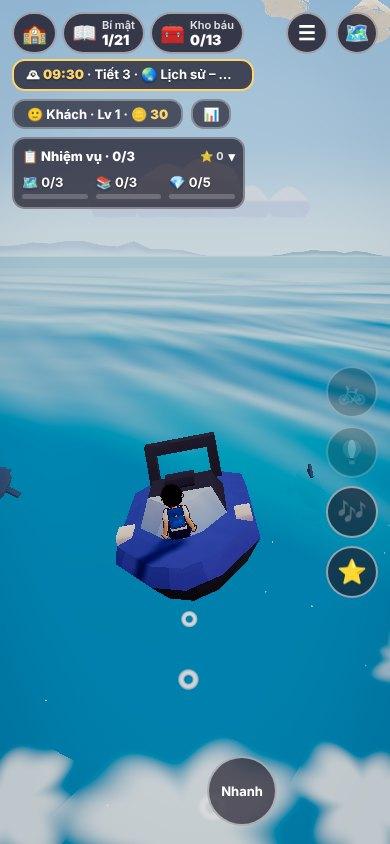
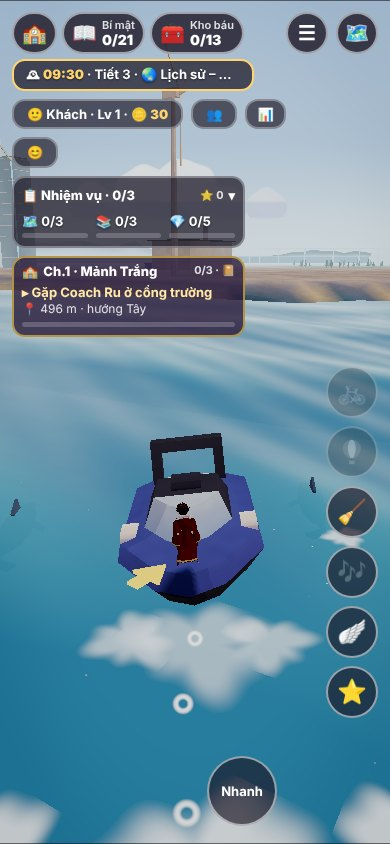
Biển sau ghép: bến phà thứ 3 dời về Bến Tây (vịnh tây nam, cạnh cầu Làng Cổ), luồng tàu lớn vào từ đông bắc – ra tây nam tránh 2 cầu và 4 vùng ngoài khơi; ẩn làng/thuyền nhỏ sớm khi xa; HUD biển dưới bảng cốt truyện trên điện thoại; chụp lại ảnh
Claude-Session: https://claude.ai/code/session_012QLWnBU5sQakeDDjyaz87d

diff --git a/client/js/island/sea/village.js b/client/js/island/sea/village.js
@@ -9,7 +9,7 @@ import { placeKit } from '../kit.js';
 import { CFG } from '../config.js';
 import { Batch } from '../academy/geo.js';
 import { matV, mat } from '../sample/palette.js';
-import { PHI, BAY, toW, NAME, DECK_Y, PIER_V, PIER_U0, PIER_U1, PIER_W, HEAD_W, HEAD_D, HOUSES, DECKS, CAGES, SEAWEED, RESORT_JETTY, PONTOON } from './site.js';
+import { PHI, BAY, toW, NAME, DECK_Y, PIER_V, PIER_U0, PIER_U1, PIER_W, HEAD_W, HEAD_D, HOUSES, DECKS, CAGES, SEAWEED, WEST, PONTOON } from './site.js';
 
 const WOOD = '#b07a48', WOOD_D = '#7a5232', WOOD_L = '#c99a62', POST = '#5c4030', BAMBOO = '#c9b06a', ROPE = '#d9c9a0';
 const WALLS = ['#3f9c9a', '#e8d9b0', '#d9785a', '#5f8fc9', '#e3b85a'];
@@ -64,7 +64,8 @@ export function createVillage(ctx) {
     b.cyl(-(v + (i % 2 ? -3 : 3)), y, u1 - 0.9, 0.42, 0.75, '#8a5a3c', 8, 0.3);
     for (let k = 0; k < 4; k++) bx(u1, u1 + 0.12, v - 0.4, v + 0.4, y - 0.3 - k * 0.38, y - 0.24 - k * 0.38, WOOD_D);
   });
-  placeKit(scene, 'dock_hut', huts, { shadow: !MOB }).then(L => L.forEach(m => { m.userData.sea = 1; }));
+  const kitIM = [];   // InstancedMesh của model kit (nằm ngoài root) → ẩn/hiện cùng làng
+  placeKit(scene, 'dock_hut', huts, { shadow: !MOB }).then(L => kitIM.push(...L));
 
   // ---------- lưới phơi trên bãi (2 giàn) + lưới vắt lan can cầu tàu ----------
   const netQuad = (u0, v0, u1, v1, y0, y1, lean = 0.5, rep = 3) => {
@@ -105,7 +106,7 @@ export function createVillage(ctx) {
   for (const [du, v, s] of [[-8, -11.5, 2.6], [-8.6, -2.6, 2.4], [-4.5, -19.5, 2.5], [-4, -13.2, 2.2]]) K('barrels', shoreU(v) + du, v, s, v);
   for (const [u, dv, c] of [[30.6, 1, '#3d8fd9'], [31.5, -1.05, '#8a5a3c'], [PIER_U1 - 1.2, 2.2, '#3d8fd9'], [PIER_U1 - 1.4, -7.5, '#8a5a3c']]) { b.cyl(-(PIER_V + dv), DECK_Y, u, 0.34, 0.78, c, 8); b.cyl(-(PIER_V + dv), DECK_Y + 0.78, u, 0.36, 0.05, '#2b2f36', 8); }   // thùng phuy, thùng gỗ trên cầu
   for (const [u, dv] of [[32.5, 0.9], [PIER_U1 - 2.6, 7.2]]) b.cyl(-(PIER_V + dv), DECK_Y, u, 0.45, 0.5, BAMBOO, 9, 0.52);   // sọt tre trên cầu
-  for (const name in kits) placeKit(scene, name, kits[name], { shadow: false });
+  for (const name in kits) placeKit(scene, name, kits[name], { shadow: false }).then(L => kitIM.push(...L));
   let freshIM = [];
   placeKit(scene, 'fish', fresh.map(([u, v, dy, r]) => { const [x, z] = toW(u, v); return [x, H(x, z) + dy, z, 0.9, r]; }), { shadow: false }).then(L => { freshIM = L; for (const m of L) m.visible = false; });
 
@@ -113,7 +114,7 @@ export function createVillage(ctx) {
   {
     const c = document.createElement('canvas'); c.width = 512; c.height = 256; const k = c.getContext('2d');
     const plate = (y, h, bg, t1, t2) => { k.fillStyle = bg; k.beginPath(); k.roundRect(6, y + 6, 500, h - 12, 18); k.fill(); k.strokeStyle = '#3a2a16'; k.lineWidth = 6; k.stroke(); k.fillStyle = '#fff8e6'; k.textAlign = 'center'; k.textBaseline = 'middle'; k.font = '800 50px system-ui'; k.fillText(t1, 256, y + h * (t2 ? 0.38 : 0.5), 470); if (t2) { k.font = '700 26px system-ui'; k.fillText(t2, 256, y + h * 0.74, 470); } };
-    plate(0, 128, '#1f6fb5', '⚓ ' + NAME.toUpperCase()); plate(128, 128, '#2c6455', '⛴ BẾN PHÀ', 'Làng nổi · Resort Biển Xanh');
+    plate(0, 128, '#1f6fb5', '⚓ ' + NAME.toUpperCase()); plate(128, 128, '#2c6455', '⛴ BẾN PHÀ', 'Làng nổi · Bến Tây');
     const tex = new THREE.CanvasTexture(c); tex.colorSpace = THREE.SRGBColorSpace; tex.anisotropy = 4;
     const q = (w, h, v0, x, y, z, ry) => { const g = new THREE.PlaneGeometry(w, h); const uv = g.attributes.uv; for (let i = 0; i < uv.count; i++) uv.setY(i, v0 + uv.getY(i) * 0.5); return g.rotateY(ry).translate(x, y, z); };
     const sg = mergeGeometries([q(4.2, 1.05, 0.5, -PIER_V, DECK_Y + 3.0, PIER_U0 + 1.34, Math.PI), q(4.2, 1.05, 0.5, -PIER_V, DECK_Y + 3.0, PIER_U0 + 1.66, 0),
@@ -148,20 +149,28 @@ export function createVillage(ctx) {
   }
   const weedMesh = new THREE.Mesh(wb.build(), matV()); weed.add(weedMesh);
 
-  // ---------- cầu phà ở Resort Biển Xanh (toạ độ thế giới, sàn đi được qua ctx.decks) ----------
+  // ---------- Bến Tây: cầu phà chữ T ở vịnh tây nam (hệ u, v của WEST) + bậc xuống từ bờ cao; ponton Làng nổi (toạ độ thế giới) ----------
+  const westDecks = [];
   {
-    const J = RESORT_JETTY, jb = new Batch(), jg = new Batch(), y = J.y, sb = (x, z) => Math.min(-0.3, H(x, z));
-    const dk = (x0, x1, z0, z1) => { jb.box(x0, x1, y - 0.16, y, z0, z1, WOOD); jb.box(x0, x1, y, y + 0.12, z0, z0 + 0.14, WOOD_D); jb.box(x0, x1, y, y + 0.12, z1 - 0.14, z1, WOOD_D);
-      for (let x = x0 + 0.5; x <= x1 - 0.3; x += 4) for (const z of [z0 + 0.25, z1 - 0.25]) jb.cyl(x, sb(x, z) - 0.4, z, 0.14, y + 0.5 - sb(x, z) + 0.4, POST, 6); ctx.decks.push({ x0, x1, z0, z1, y }); };
-    dk(J.x0 + J.headD, J.x1, J.z - J.w / 2, J.z + J.w / 2); dk(J.x0, J.x0 + J.headD, J.z - J.headW / 2, J.z + J.headW / 2);
-    for (let z = J.z - J.headW / 2 + 1.5; z < J.z + J.headW / 2; z += 3) jb.add(new THREE.TorusGeometry(0.32, 0.12, 5, 10), '#22262b', J.x0 - 0.1, y - 0.45, z, Math.PI / 2);
-    for (const [x, z] of [[J.x0 + J.headD - 0.6, J.z - J.headW / 2 + 0.6], [J.x0 + J.headD - 0.6, J.z + J.headW / 2 - 0.6], [J.x1 - 4, J.z + 1.25]]) { jb.cyl(x, y, z, 0.07, 2.9, '#3a3344', 6); jb.box(x - 0.3, x + 0.3, y + 2.84, y + 2.9, z - 0.04, z + 0.04, '#3a3344'); jg.add(new THREE.CylinderGeometry(0.15, 0.15, 0.34, 6), '#ffe3a0', x - 0.24, y + 2.6, z); }
-    for (const x of [J.x0 + 1, J.x0 + 4]) for (const z of [J.z + 3, J.z + 9]) jb.cyl(x, y, z, 0.09, 2.5, WOOD_D, 6);   // nhà chờ
-    jb.gable(J.x0 + 0.4, J.x0 + 4.6, J.z + 2.5, J.z + 9.5, y + 2.5, 1.0, '#c9a15a'); jb.box(J.x0 + 3.6, J.x0 + 4.1, y + 0.4, y + 0.5, J.z + 3.6, J.z + 8.4, WOOD_L);
+    const J = WEST, wroot = new THREE.Group(); wroot.name = 'sea-jetty-west'; wroot.position.set(J.O[0], 0, J.O[1]); wroot.rotation.y = J.ry; scene.add(wroot);
+    const jb = new Batch(), jg = new Batch(), y = J.y, tw = (u, v) => [J.O[0] + J.D[0] * u + J.T[0] * v, J.O[1] + J.D[1] * u + J.T[1] * v], sb = (u, v) => Math.min(-0.3, H(...tw(u, v)));
+    const dk = (u0, u1, v0, v1, yy, posts = true) => { jb.box(-v1, -v0, yy - 0.16, yy, u0, u1, WOOD); jb.box(-v0 - 0.14, -v0, yy, yy + 0.12, u0, u1, WOOD_D); jb.box(-v1, -v1 + 0.14, yy, yy + 0.12, u0, u1, WOOD_D);
+      if (posts) for (let u = u0 + 0.5; u <= u1 - 0.3; u += 4) for (const v of [v0 + 0.25, v1 - 0.25]) jb.cyl(-v, sb(u, v) - 0.4, u, 0.14, yy + 0.5 - sb(u, v) + 0.4, POST, 6); westDecks.push([u0, u1, v0, v1, yy]); };
+    for (const [u0, u1, yy] of [[-7.5, -5, 2.9], [-5, -2.5, 2.4], [-2.5, 0, 1.85]]) { dk(u0, u1, -J.W / 2, J.W / 2, yy, false); jb.box(-J.W / 2, J.W / 2, H(...tw((u0 + u1) / 2, 0)) - 1.2, yy - 0.16, u0, u1, WOOD_D); }   // 3 bậc xuống từ bờ cao
+    dk(0, J.U1 - J.headD, -J.W / 2, J.W / 2, y); dk(J.U1 - J.headD, J.U1, -J.headW / 2, J.headW / 2, y);
+    for (let v = -J.headW / 2 + 1.5; v < J.headW / 2; v += 3) jb.add(new THREE.TorusGeometry(0.32, 0.12, 5, 10), '#22262b', -v, y - 0.45, J.U1 + 0.1);
+    for (const [u, v] of [[J.U1 - J.headD + 0.6, -J.headW / 2 + 0.6], [J.U1 - J.headD + 0.6, J.headW / 2 - 0.6], [8, 1.25], [19, -1.25]]) { jb.cyl(-v, y, u, 0.07, 2.9, '#3a3344', 6); jb.box(-v - 0.04, -v + 0.04, y + 2.84, y + 2.9, u - 0.3, u + 0.3, '#3a3344'); jg.add(new THREE.CylinderGeometry(0.15, 0.15, 0.34, 6), '#ffe3a0', -v, y + 2.6, u + 0.24); }
+    for (const u of [J.U1 - 4.3, J.U1 - 1.1]) for (const v of [3, 9.5]) jb.cyl(-v, y, u, 0.09, 2.5, WOOD_D, 6);   // nhà chờ
+    jb.gable(-10, -2.5, J.U1 - 4.9, J.U1 - 0.5, y + 2.5, 1.0, '#c9a15a'); jb.box(-8.6, -3.8, y + 0.4, y + 0.5, J.U1 - 4.1, J.U1 - 3.6, WOOD_L);
+    jb.box(-1.36, -1.64 + 0.56, y + 3.3, y + 3.5, 1.4, 1.6, WOOD_D); for (const v of [-1.5, 1.5]) jb.cyl(-v, y, 1.5, 0.11, 3.4, WOOD_D, 6);   // cổng đầu cầu
+    const jm = new THREE.Mesh(jb.build(), matV()); jm.castShadow = true; jm.receiveShadow = true; wroot.add(jm); wroot.add(new THREE.Mesh(jg.build(), mat('lampGlow')));
+  }
+  {
+    const jb = new Batch(), jg = new Batch();
     // ponton bến phà ở Làng nổi: sàn 4 × 4 m trên 4 thùng phuy, nối đầu cầu sẵn có
     { const Q = PONTOON, x0 = Q.x - Q.r, x1 = Q.x + Q.r, z0 = Q.z - Q.r, z1 = Q.z + Q.r; jb.box(x0, x1, Q.y - 0.16, Q.y, z0, z1, WOOD_L); for (const x of [x0 + 0.5, x1 - 0.5]) for (const z of [z0 + 0.5, z1 - 0.5]) jb.add(new THREE.CylinderGeometry(0.36, 0.36, 1.0, 8), '#2f6fc0', x, Q.y - 0.62, z);
       jb.cyl(x0 + 0.3, Q.y, z0 + 0.3, 0.07, 2.6, '#3a3344', 6); jg.add(new THREE.CylinderGeometry(0.15, 0.15, 0.34, 6), '#ffe3a0', x0 + 0.3, Q.y + 2.6, z0 + 0.3); jb.box(x0 + 0.6, x0 + 0.72, Q.y + 1.5, Q.y + 2.2, z0 + 0.1, z0 + 1.7, '#2c6455'); ctx.decks.push({ x0, x1, z0, z1, y: Q.y }); }
-    const jm = new THREE.Mesh(jb.build(), matV()); jm.castShadow = true; jm.receiveShadow = true; jm.name = 'sea-jetty'; scene.add(jm); scene.add(new THREE.Mesh(jg.build(), mat('lampGlow')));
+    const jm = new THREE.Mesh(jb.build(), matV()); jm.castShadow = true; jm.receiveShadow = true; jm.name = 'sea-pontoon'; scene.add(jm); scene.add(new THREE.Mesh(jg.build(), mat('lampGlow')));
   }
 
   // ---------- lưới rùng (kéo lúc chiều): dây phao chữ U từ 2 người kéo trên bãi vòng ra biển 13 m ----------
@@ -184,12 +193,16 @@ export function createVillage(ctx) {
   const cageNet = new THREE.Mesh(mergeGeometries(cageNets), netMat); cage.add(cageNet);
 
   // ---------- sàn đi được + tiếng chân gỗ ----------
-  const R2 = 110 * 110, [Ox, Oz] = BAY.O, [Dx, Dz] = BAY.D, [Tx, Tz] = BAY.T;
+  const [Ox, Oz] = BAY.O;
+  const frames = [{ O: BAY.O, D: BAY.D, T: BAY.T, R2: 110 * 110, decks }, { O: WEST.O, D: WEST.D, T: WEST.T, R2: 55 * 55, decks: westDecks }];
   const prevG = ctx.groundExtra, prevS = ctx.surfaceAt;
   const deckAt = (x, z, y) => {
-    const dx = x - Ox, dz = z - Oz; if (dx * dx + dz * dz > R2) return -99;
-    const u = dx * Dx + dz * Dz, v = dx * Tx + dz * Tz; let h = -99;
-    for (const d of decks) if (u >= d[0] && u <= d[1] && v >= d[2] && v <= d[3] && d[4] <= (y ?? 99) + 1.1 && d[4] > h) h = d[4];
+    let h = -99;
+    for (const F of frames) {
+      const dx = x - F.O[0], dz = z - F.O[1]; if (dx * dx + dz * dz > F.R2) continue;
+      const u = dx * F.D[0] + dz * F.D[1], v = dx * F.T[0] + dz * F.T[1];
+      for (const d of F.decks) if (u >= d[0] && u <= d[1] && v >= d[2] && v <= d[3] && d[4] <= (y ?? 99) + 1.1 && d[4] > h) h = d[4];
+    }
     return h;
   };
   ctx.groundExtra = (x, z, y) => Math.max(prevG ? prevG(x, z, y) : -99, deckAt(x, z, y));
@@ -198,10 +211,12 @@ export function createVillage(ctx) {
   if (ctx.addSoundZone) { const [x, z] = toW(20, PIER_V); ctx.addSoundZone({ file: 'amb-wave1', x, y: 0.5, z, ref: 8, vol: 0.8 }); ctx.addSoundSpot({ files: ['sfx-gull1', 'sfx-gull2'], x, y: 9, z, ref: 13, vol: 0.5, every: [8, 21], when: 'day' }); }
 
   // ---------- cập nhật: ẩn khi xa, chợ sáng, bè nhấp nhô ----------
-  let vis = true, tick = 0;
+  let vis = true, tick = 0, westT = 0; const westRoot = scene.getObjectByName('sea-jetty-west');
   function update(dt, t) {
-    const p = ctx.player.pos, d = Math.hypot(p.x - Ox, p.z - Oz), far = (scene.fog ? scene.fog.far : 300) + 89, want = d < far;
-    if (want !== vis) { vis = want; root.visible = cage.visible = weed.visible = want; }
+    // xa hơn 233 m (điện thoại) / sương + 55 m (máy tính): làng đã chìm trong sương → tắt hẳn (cả model kit) để không tốn draw call ở giữa đảo
+    const p = ctx.player.pos, d = Math.hypot(p.x - Ox, p.z - Oz), fogFar = scene.fog ? scene.fog.far : 300, want = d < (MOB ? Math.min(233, fogFar) : fogFar + 55);
+    if (want !== vis) { vis = want; root.visible = cage.visible = weed.visible = want; for (const m of kitIM) m.visible = want; if (!want) for (const m of freshIM) m.visible = false; }
+    if ((westT -= dt) <= 0) { westT = 0.5; const wv = Math.hypot(p.x - WEST.O[0], p.z - WEST.O[1]) < (MOB ? Math.min(233, fogFar) : fogFar + 55); if (westRoot && westRoot.visible !== wv) westRoot.visible = wv; }
     if (!vis) return;
     const hr = ctx.sky.state.hour, market = hr >= 4.9 && hr < 8.5;
     if ((tick -= dt) <= 0) { tick = 0.5; for (const m of freshIM) if (m.visible !== market) m.visible = market; const pull = hr >= 15.8 && hr < 18.4; if (seine.visible !== pull) seine.visible = pull; }

diff --git a/client/js/island/sea/site.js b/client/js/island/sea/site.js
@@ -1,7 +1,7 @@
 // sea/site.js — BỐ CỤC THẾ GIỚI ĐẠI DƯƠNG (chỉ số liệu, không dựng hình):
 //   - Làng chài Vịnh Én ở vịnh cát hướng đông – đông nam (góc 23°, giữa khu Thể thao và Sân bay), hệ toạ độ riêng (u ra khơi, v dọc bờ).
-//   - Luồng tàu lớn (tàu du lịch, tàu hàng) vòng nửa đông – nam đảo, cách bờ ~ 89–144 m (Fibonacci) để còn thấy trong sương.
-//   - Tuyến phà 3 bến: Làng chài ⇄ Làng nổi ⇄ Resort Biển Xanh. Tránh góc tây bắc (cầu cạn Tàu Pha Lê, thuyền đèn lồng).
+//   - Luồng tàu lớn (tàu du lịch, tàu hàng): từ khơi đông bắc vòng nửa đông – nam đảo ra khơi tây nam, cách bờ ~ 89–144 m (Fibonacci).
+//   - Tuyến phà 3 bến: Làng chài ⇄ Làng nổi ⇄ Bến Tây (cạnh cầu ra Làng Cổ). Không cắt 2 cầu (bắc, tây), cầu cạn Tàu Pha Lê, 4 vùng ngoài khơi.
 import { PHI } from '../layout.js';
 
 export const DEG = Math.PI / 180;
@@ -27,26 +27,30 @@ export const DECKS = [
 // ----- Bến phà: p = chỗ phà đậu (song song mép bến), land = chỗ khách bước lên -----
 const A = toW(PIER_U1 + 4.7, PIER_V), aLand = toW(PIER_U1 - 1.6, PIER_V);
 export const PONTOON = { x: 254.9, z: 253.9, r: 2, y: 1.1 };
-export const RESORT_JETTY = { x0: -335, x1: -301.5, z: 30, w: 3, headW: 21, headD: 5, y: 1.3 };   // cầu phà riêng ở nam Resort (cầu cũ sát cầu cạn tàu hoả)
+// ----- Bến Tây: cầu phà ở vịnh tây nam (tia 150°), ngay nam cầu ra Làng Cổ; hệ (u ra khơi, v dọc bờ) riêng -----
+export const WEST = (() => { const a = 150 * DEG, D = [Math.cos(a), Math.sin(a)], T = [-D[1], D[0]], r0 = 271.25, O = [D[0] * r0, D[1] * r0]; return { D, T, O, ry: Math.atan2(D[0], D[1]), U1: 34, W: 3, headW: 21, headD: 5, y: 1.3 }; })();
+export const toW2 = (u, v) => [WEST.O[0] + WEST.D[0] * u + WEST.T[0] * v, WEST.O[1] + WEST.D[1] * u + WEST.T[1] * v];
 export const STOPS = [
   { id: 'chai', name: NAME, p: A, land: aLand },
   { id: 'noi', name: 'Làng nổi trên biển', p: [250.6, 249.6], land: [254.9, 253.9] },   // ponton 4 × 4 m nối dài đầu cầu Làng nổi (village.js)
-  { id: 'resort', name: 'Resort Biển Xanh', p: [RESORT_JETTY.x0 - 4.7, RESORT_JETTY.z], land: [RESORT_JETTY.x0 + 2, RESORT_JETTY.z] },
+  { id: 'tay', name: 'Bến Tây (cầu Làng Cổ)', p: toW2(WEST.U1 + 4.7, 0), land: toW2(WEST.U1 - 2.5, 0) },
 ];
-// đường phà = VÒNG KÍN (phà luôn chạy tới, không quay đầu tại bến): Làng chài → Làng nổi → Resort → (vòng ngoài) → Làng nổi → Làng chài.
+// đường phà = VÒNG KÍN (phà luôn chạy tới, không quay đầu tại bến): Làng chài → Làng nổi → Bến Tây → (vòng ngoài) → Làng nổi → Làng chài.
 // Lượt đi men trong (bán kính 336 m), lượt về men ngoài (358 m); ở bến đầu/cuối có vòng quay giọt nước để cập song song mép bến.
+// Không vượt cầu Làng Cổ (tia 168°) và cầu Núi Tuyết (bắc): tuyến chỉ nằm ở nửa đông – nam.
 const B = STOPS[1].p, C = STOPS[2].p;
 export const FERRY_PATH = [
   A, toW(52, -1), toW(76, 12), [322, 160], [316, 196], [290, 213], [262, 228], B,
-  [243, 259.5], [222, 270], ...[56, 70, 86, 102, 118, 134, 150, 164].map(a => polar(336, a)), [-341, 62], C,
-  [-341, 6], [-352, -4], [-367, 4], [-372, 30], [-366, 60], ...[166, 150, 134, 118, 102, 86, 70, 58].map(a => polar(358, a)), [226, 282], [243, 259.5], B,
+  [243, 259.5], [222, 270], ...[56, 70, 86, 102, 118, 134].map(a => polar(336, a)), toW2(42, -70), toW2(WEST.U1 + 4.7, -32), C,
+  toW2(40, 26), toW2(54, 40), toW2(72, 36), toW2(84, 16), ...[150, 134, 118, 102, 86, 70, 58].map(a => polar(358, a)), [226, 282], [243, 259.5], B,
   [262, 228], [292, 212], [332, 196], [344, 152], toW(88, -14), toW(78, -32), toW(60, -37), toW(47, -28),
 ];
-const iB1 = 7, iC = 19, iB2 = iC + 16;
+const iB1 = 7, iC = 18, iB2 = iC + 14;
 export const FERRY_STOPS = [{ i: 0, stop: 0 }, { i: iB1, stop: 1 }, { i: iC, stop: 2 }, { i: iB2, stop: 1 }];   // thứ tự ghé bến trên vòng
 
-// ----- Luồng tàu lớn: đường hở từ khơi bắc → đông → nam → khơi tây nam (đi 2 chiều, lệch bán kính) -----
-const LANE = [[720, 265], [560, 274], [455, 294], [432, 318], [426, 342], [432, 4], [462, 22], [530, 37], [538, 52], [470, 68], [432, 86], [426, 106], [436, 126], [470, 141], [560, 150], [720, 156]];
+// ----- Luồng tàu lớn: đường hở từ khơi đông bắc (giữa Núi Tuyết và Thành phố Tương lai) → đông → nam → khơi tây nam
+//       (giữa Quần đảo San Hô và Làng Cổ); đi 2 chiều, lệch bán kính 34 m. Không cắt cầu, không vào 4 vùng ngoài khơi. -----
+const LANE = [[790, 316], [600, 318], [470, 322], [432, 334], [426, 348], [430, 4], [462, 22], [530, 37], [538, 52], [470, 68], [432, 86], [424, 106], [440, 122], [520, 131], [640, 135], [790, 137]];
 export const lane = (dr = 0) => LANE.map(([r, a]) => polar(r + dr, a));
 
 // ----- Ngư trường của ghe (ngoài khơi phía đông, bắc tuyến phà) & vòng lượn của thuyền buồm, ca nô -----

diff --git a/client/js/island/sea/pilot.js b/client/js/island/sea/pilot.js
@@ -6,7 +6,7 @@
 import * as THREE from 'three';
 import { loadModel } from '../models.js';
 import { CFG } from '../config.js';
-import { PHI, BAY, toW, PIER_V, RESORT_JETTY, STOPS } from './site.js';
+import { PHI, BAY, toW, PIER_V, WEST, toW2, STOPS } from './site.js';
 
 const KNOT = 1.852 / 3.6;   // 1 hải lý/giờ = 1,852 km/h ≈ 0,514 m/s
 const DIR8 = ['bắc', 'đông bắc', 'đông', 'đông nam', 'nam', 'tây nam', 'tây', 'tây bắc'];
@@ -37,7 +37,7 @@ export function createPilot(ctx, { fleet }) {
 
   // ---------- HUD la bàn gió ----------
   const hud = document.createElement('div');
-  const TOP = () => `calc(max(12px,env(safe-area-inset-top)) + ${MOB || innerWidth < 610 ? 204 : 96}px)`;   // điện thoại dọc: nằm dưới bảng nhiệm vụ
+  const TOP = () => `calc(max(12px,env(safe-area-inset-top)) + ${MOB || innerWidth < 610 ? 338 : 96}px)`;   // điện thoại dọc: nằm dưới bảng nhiệm vụ + bảng cốt truyện
   hud.style.cssText = 'position:fixed;left:50%;transform:translateX(-50%);top:0;z-index:26;display:none;align-items:center;gap:8px;padding:5px 13px 5px 5px;border-radius:34px;background:#0f2a3ad9;color:#fff3d6;font:700 13px/1.25 system-ui;pointer-events:none;max-width:94vw';
   hud.innerHTML = `<svg width="55" height="55" viewBox="-28 -28 56 56" style="flex:none"><circle r="26" fill="#17384a" stroke="#fff3d6" stroke-width="1.6"/>
 <g fill="#fff3d6" font-size="8" font-weight="800" text-anchor="middle"><text y="-16">B</text><text x="19" y="3">Đ</text><text y="22">N</text><text x="-19" y="3">T</text></g>
@@ -66,12 +66,11 @@ export function createPilot(ctx, { fleet }) {
       onDismount: () => { showHud(false); pl.root.rotation.set(0, 0, 0); } };
     g.position.set(x, 0, z); g.rotation.y = ry; V.register(v); boats.push(v); return v;
   }
-  const J = RESORT_JETTY;
   // seat / seatZ: chỗ ngồi đo từ lưới model (sàn khoang lái phía lái thuyền), dy: mớn nước
   make({ model: 'boat_sail_a', s: 1.6, sail: true, name: 'Thuyền buồm Vịnh Én', seat: 0.8, seatZ: -2.3, dy: -0.32, ry: BAY.ry, ...xz(toW(29.8, PIER_V + 3.5)) });
   make({ model: 'boat_speed_a', s: 1.7, sail: false, name: 'Ca nô làng chài', seat: 1.18, seatZ: -1.9, dy: -0.3, ry: BAY.ry, ...xz(toW(29, PIER_V - 3.4)) });
-  make({ model: 'boat_speed_e', s: 1.9, sail: false, name: 'Ca nô Resort', seat: 0.65, seatZ: 0.8, dy: -0.3, ry: -Math.PI / 2, x: J.x0 + J.headD + 5, z: J.z - 3.4 });
-  make({ model: 'boat_sail_b', s: 1.6, sail: true, name: 'Thuyền buồm Resort', seat: 0.8, seatZ: -2.2, dy: -0.32, ry: -Math.PI / 2, x: J.x0 + J.headD + 6, z: J.z + 3.5 });
+  make({ model: 'boat_speed_e', s: 1.9, sail: false, name: 'Ca nô Bến Tây', seat: 0.65, seatZ: 0.8, dy: -0.3, ry: WEST.ry, ...xz(toW2(21, -3.5)) });
+  make({ model: 'boat_sail_b', s: 1.6, sail: true, name: 'Thuyền buồm Bến Tây', seat: 0.8, seatZ: -2.2, dy: -0.32, ry: WEST.ry, ...xz(toW2(21, 3.6)) });
   function xz([x, z]) { return { x, z }; }
 
   let heel = 0, lastState = '', sailed = 0;
@@ -153,7 +152,7 @@ export function createPilot(ctx, { fleet }) {
     const p = pl.pos;
     if (!aboard) {
       if (F.state === 'dock' && !pl.vehicle && !pl.frozen) { const s = F.at || STOPS[0], d = Math.hypot(p.x - s.land[0], p.z - s.land[1]); if (d < 7) ctx.offer(`⛴ Lên phà đi ${nextName()}`, board, 2.2); }   // ưu tiên thấp hơn nói chuyện / câu cá với người đứng cạnh
-      else if (!pl.vehicle && !pl.frozen) for (const s of STOPS) if (Math.hypot(p.x - s.land[0], p.z - s.land[1]) < 6) { once('wait' + s.id, `⛴ <b>Bến phà ${s.name}</b> — phà chạy vòng 3 bến: Làng chài · Làng nổi · Resort. Chờ phà cập bến rồi lên nhé!`, 5000); }
+      else if (!pl.vehicle && !pl.frozen) for (const s of STOPS) if (Math.hypot(p.x - s.land[0], p.z - s.land[1]) < 6) { once('wait' + s.id, `⛴ <b>Bến phà ${s.name}</b> — phà chạy vòng 3 bến: Làng chài · Làng nổi · Bến Tây. Chờ phà cập bến rồi lên nhé!`, 5000); }
       return;
     }
     // đứng trên boong: vị trí theo thân phà (nhấp nhô theo sóng)

diff --git a/client/js/island/sea/index.js b/client/js/island/sea/index.js
@@ -1,7 +1,7 @@
 // sea/index.js — THẾ GIỚI ĐẠI DƯƠNG: ghép các phần.
 //   site.js    số liệu bố cục (làng chài, luồng tàu, tuyến phà — theo φ / Fibonacci)
 //   fleet.js   đội tàu thuyền chạy tuyến: thúng, ghe có mắt, buồm, ca nô, tàu hàng, tàu du lịch, phà, phao tiêu; bọt đuôi, đèn đêm, còi
-//   village.js Làng chài Vịnh Én: cầu tàu, nhà sàn, lưới phơi, cá khô, chợ cá sáng, lồng bè, giàn rong, cầu phà Resort
+//   village.js Làng chài Vịnh Én: cầu tàu, nhà sàn, lưới phơi, cá khô, chợ cá sáng, lồng bè, giàn rong, cầu phà Bến Tây, ponton Làng nổi
 //   folk.js    ngư dân theo giờ + người câu cá, nói chuyện, ngồi câu cạnh, thi câu
 //   pilot.js   người chơi lái thuyền buồm theo gió / ca nô, đi nhờ phà
 //   wild.js    cá heo theo thuyền, cá voi phun nước, hải âu theo ghe, rùa, sương sớm, sóng giông
@@ -11,7 +11,7 @@ import { createVillage } from './village.js';
 import { createFolk } from './folk.js';
 import { createPilot } from './pilot.js';
 import { createWild } from './wild.js';
-import { BAY, NAME, STOPS, FERRY_PATH, toW, PIER_V, PIER_U0, PIER_U1, CAGES, SEAWEED, RESORT_JETTY } from './site.js';
+import { BAY, NAME, STOPS, FERRY_PATH, toW, toW2, WEST, PIER_V, PIER_U0, PIER_U1, CAGES, SEAWEED } from './site.js';
 
 export function createSea(ctx) {
   const village = createVillage(ctx);
@@ -25,15 +25,15 @@ export function createSea(ctx) {
     { n: NAME, x: BAY.O[0] - BAY.D[0] * 8, z: BAY.O[1] - BAY.D[1] * 8, ic: '⚓' },
     { n: 'Bến phà Làng chài', x: STOPS[0].land[0], z: STOPS[0].land[1], ic: '⛴' },
     { n: 'Bến phà Làng nổi', x: STOPS[1].land[0], z: STOPS[1].land[1], ic: '⛴' },
-    { n: 'Bến phà Resort', x: STOPS[2].land[0], z: STOPS[2].land[1], ic: '⛴' },
+    { n: 'Bến phà Tây (cầu Làng Cổ)', x: STOPS[2].land[0], z: STOPS[2].land[1], ic: '⛴' },
     { n: 'Lồng bè nuôi cá', x: toW(CAGES.u, CAGES.v)[0], z: toW(CAGES.u, CAGES.v)[1], ic: '🐟' });
   const ICON = { liner: '🛳', cargo: '🚢', ferry: '⛴', sailA: '⛵', sailB: '⛵', speed: '🚤', ghe: '🛥', thung: '🛶' };
   (ctx.mapLayers = ctx.mapLayers || []).push(({ g, sx, sy, zoom }) => {   // world-map.js gọi mỗi khung khi bản đồ mở: f({ g, sx, sy, zoom, … })
-    // cầu tàu làng chài + cầu phà Resort
+    // cầu tàu làng chài + cầu phà Bến Tây
     g.strokeStyle = '#8a5a34'; g.lineCap = 'butt'; g.lineWidth = Math.max(2, 3 * zoom);
     const seg = (a, b) => { g.beginPath(); g.moveTo(sx(a[0]), sy(a[1])); g.lineTo(sx(b[0]), sy(b[1])); g.stroke(); };
     seg(toW(PIER_U0, PIER_V), toW(PIER_U1, PIER_V)); seg(toW(PIER_U1 - 2.5, PIER_V - 10.5), toW(PIER_U1 - 2.5, PIER_V + 10.5));
-    seg([RESORT_JETTY.x1, RESORT_JETTY.z], [RESORT_JETTY.x0, RESORT_JETTY.z]); seg([RESORT_JETTY.x0 + 2.5, RESORT_JETTY.z - 10.5], [RESORT_JETTY.x0 + 2.5, RESORT_JETTY.z + 10.5]);
+    seg(toW2(-7, 0), toW2(WEST.U1, 0)); seg(toW2(WEST.U1 - 2.5, -10.5), toW2(WEST.U1 - 2.5, 10.5));
     // tuyến phà (nét đứt)
     g.setLineDash([6, 6]); g.lineWidth = 2; g.strokeStyle = 'rgba(255,243,214,.85)'; g.beginPath(); const q = [0, 0], P = fleet.ferry.path;
     for (let s = 0; s <= P.L; s += 13) { P.at(s, q); if (s === 0) g.moveTo(sx(q[0]), sy(q[1])); else g.lineTo(sx(q[0]), sy(q[1])); } g.closePath(); g.stroke(); g.setLineDash([]);

diff --git a/client/js/island/sea/fleet.js b/client/js/island/sea/fleet.js
@@ -103,7 +103,7 @@ export function createFleet(ctx) {
   const add = (kind, o) => { const K = KIND[kind], v = Object.assign({ kind, K, x: 0, z: 0, y: 0, h: 0, sp: 0, pitch: 0, roll: 0, vis: false, d: 1e9, wakeT: Math.random(), mat: new THREE.Matrix4(), s: 0, ph: vessels.length * 2.399 }, o); v.i = (byKind[kind] = byKind[kind] || []).push(v) - 1; vessels.push(v); return v; };
 
   // ----- đội hình -----
-  const laneIn = makePath(lane(0)), laneOut = makePath(lane(47).reverse());           // tàu du lịch vòng trong, tàu hàng vòng ngoài ngược chiều
+  const laneIn = makePath(lane(0)), laneOut = makePath(lane(34).reverse());           // tàu du lịch vòng trong, tàu hàng vòng ngoài ngược chiều
   add('liner', { mode: 'lane', path: laneIn, s: laneIn.L * 0.33 });
   add('cargo', { mode: 'lane', path: laneOut, s: laneOut.L * 0.5 });
   if (!MOB) add('cargo', { mode: 'lane', path: laneOut, s: laneOut.L * 0.02 });
@@ -270,7 +270,7 @@ export function createFleet(ctx) {
     const anyVis = {};
     for (const v of vessels) {
       move(v, dt, t);
-      v.d = Math.hypot(v.x - cx, v.z - cz); v.vis = v.d < far + v.K.len;
+      v.d = Math.hypot(v.x - cx, v.z - cz); v.vis = v.d < (v.K.len > 20 ? far + v.K.len : far - 34);   // thuyền nhỏ: sát mép sương đã không còn thấy → ẩn sớm 34 m
       if (!v.vis) continue;
       anyVis[v.kind] = true; pose(v, dt, t, v.d < 144 || v.K.len > 30);
       // bọt đuôi

diff --git a/client/js/island/sea/folk.js b/client/js/island/sea/folk.js
@@ -116,7 +116,7 @@ export function createFolk(ctx, { village, fleet }) {
   let fishModel = null; loadModel('kit/fish').then(m => { if (!m) return; m.visible = false; m.scale.setScalar(0.75); scene.add(m); fishModel = m; });
 
   // ---- thi câu ----
-  const hud = document.createElement('div'); hud.style.cssText = 'position:fixed;left:50%;transform:translateX(-50%);top:calc(max(12px,env(safe-area-inset-top)) + ' + (MOB ? 204 : 96) + 'px);z-index:27;padding:6px 13px;border-radius:16px;background:#0f2a3acc;color:#fff3d6;font:700 13px system-ui;white-space:nowrap;display:none;pointer-events:none'; document.body.appendChild(hud);
+  const hud = document.createElement('div'); hud.style.cssText = 'position:fixed;left:50%;transform:translateX(-50%);top:calc(max(12px,env(safe-area-inset-top)) + ' + (MOB ? 338 : 96) + 'px);z-index:27;padding:6px 13px;border-radius:16px;background:#0f2a3acc;color:#fff3d6;font:700 13px system-ui;white-space:nowrap;display:none;pointer-events:none'; document.body.appendChild(hud);
   const bookN = () => { try { return (JSON.parse(localStorage.getItem('mg.sport.fishbook') || '{}').n) || 0; } catch (e) { return 0; } };
   let contest = null;
   function startContest(f) {

diff --git a/client/js/island/sea/wild.js b/client/js/island/sea/wild.js
@@ -157,7 +157,7 @@ export function createWild(ctx, { fleet, pilot, village }) {
 
     // ----- sương sớm -----
     const vd = Math.hypot(p.x - BAY.O[0], p.z - BAY.O[1]), rain = ctx.weather && ctx.weather.cur ? ctx.weather.cur.r : 0;
-    const mk = Math.max(0, Math.min(1, (hr - 4.6) / 0.6, (7.4 - hr) / 0.9)) * (vd < 260 ? 1 : 0) * (1 - Math.min(1, rain * 3));
+    const mk = Math.max(0, Math.min(1, (hr - 4.6) / 0.6, (7.4 - hr) / 0.9)) * (vd < 190 ? 1 : 0) * (1 - Math.min(1, rain * 3));
     MU.uK.value += (mk - MU.uK.value) * Math.min(1, dt * 0.5); const mv = MU.uK.value > 0.01; if (mist.visible !== mv) mist.visible = mv;
     if (mv) { MU.uT.value = t; MU.uCol.value.setRGB(1, 0.96, 0.9).lerp(_c.set('#9fb0c8'), S.night * 0.7); if (vd < 60 && MU.uK.value > 0.6) once('mist'); }
     if (hr > 17.3 && hr < 18.4 && vd < 60 && !stormy) once('sunset');

diff --git a/docs/shots/ocean-world/README.md b/docs/shots/ocean-world/README.md
@@ -10,9 +10,9 @@
 | 04 | Tàu du lịch + tàu hàng trên luồng, ghe đánh cá, bọt đuôi tàu |
 | 05 | Lái thuyền buồm theo gió (la bàn gió, hải lý/giờ), cá heo nhảy theo thuyền |
 | 06 | Ca nô rẽ sóng |
-| 07 | Đi nhờ phà tới Làng nổi · 07b cá voi phun nước |
+| 07 | Đi nhờ phà (3 bến: Làng chài · Làng nổi · Bến Tây cạnh cầu Làng Cổ) · 07b cá voi phun nước |
 | 08 | Chiều: ghe về bến · 09 kéo lưới rùng trên bãi, người câu mỏm đá |
 | 10 | Đêm: đèn tàu (đỏ mạn trái, xanh mạn phải, trắng cột), đèn cầu tàu · 11 tàu du lịch sáng đèn |
 | 12 | Giông: mưa, sóng cao, thuyền về bến lên đèn |
 
-Draw call (chất lượng mức 1): điện thoại tối đa 159 ở làng chài (giới hạn 233); cả game tối đa 188.
+Draw call (chất lượng mức 1): điện thoại tối đa 191 ở làng chài (giới hạn 233).
